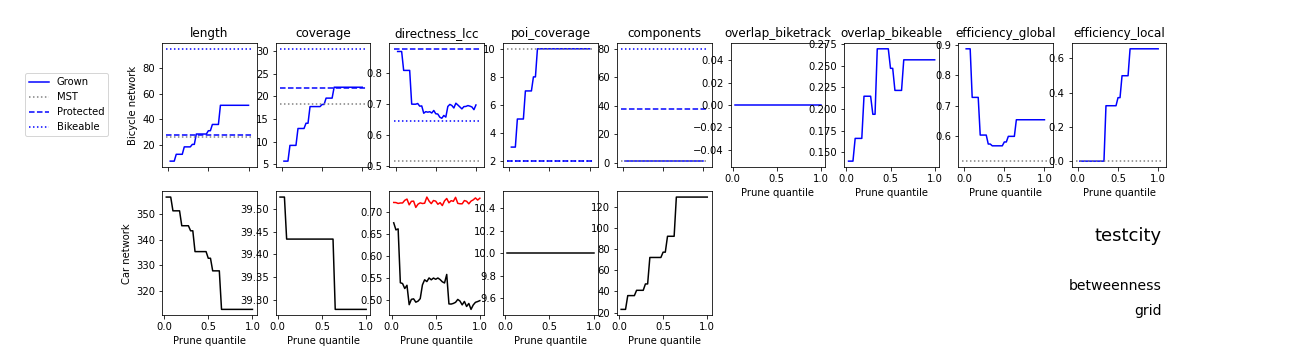
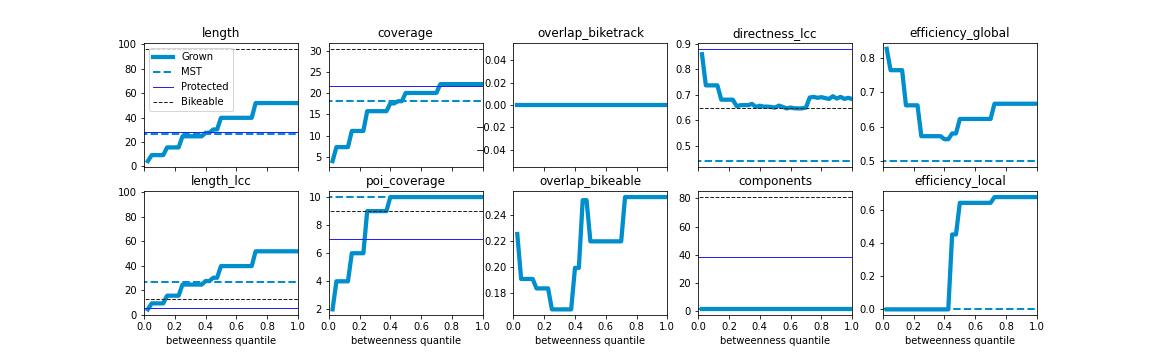
styling analysis plots

diff --git a/parameters/parameters.py b/parameters/parameters.py
@@ -43,6 +43,12 @@ plotparam = {"bbox": (1280,1280),
 			"abstract": {"edge_color": '#000000', "alpha": 0.75}
 			}
 
+plotparam_analysis = {
+			"bikegrown": {"linewidth": 4.25, "color": '#008ecc', "linestyle": "solid", "label": "Grown"},
+			"mst": {"linewidth": 2, "color": '#008ecc', "linestyle": "dashed", "label": "MST"},
+			"biketrack": {"linewidth": 1, "color": '#2222ff', "linestyle": "solid", "label": "Protected"},
+			"bikeable": {"linewidth": 1, "color": '#222222', "linestyle": "dashed", "label": "Bikeable"}
+}
 
 
 # CONSTANTS

diff --git a/code/functions.py b/code/functions.py
@@ -61,7 +61,12 @@ def initplot():
     return fig
 
 def nodesize_from_pois(nnids):
-    return max(30, 220-len(nnids))
+    """Determine POI node size based on number of POIs.
+    The more POIs the smaller (linearly) to avoid overlaps.
+    """
+    minnodesize = 30
+    maxnodesize = 220
+    return max(minnodesize, maxnodesize-len(nnids))
 
 
 def simplify_ig(G):
